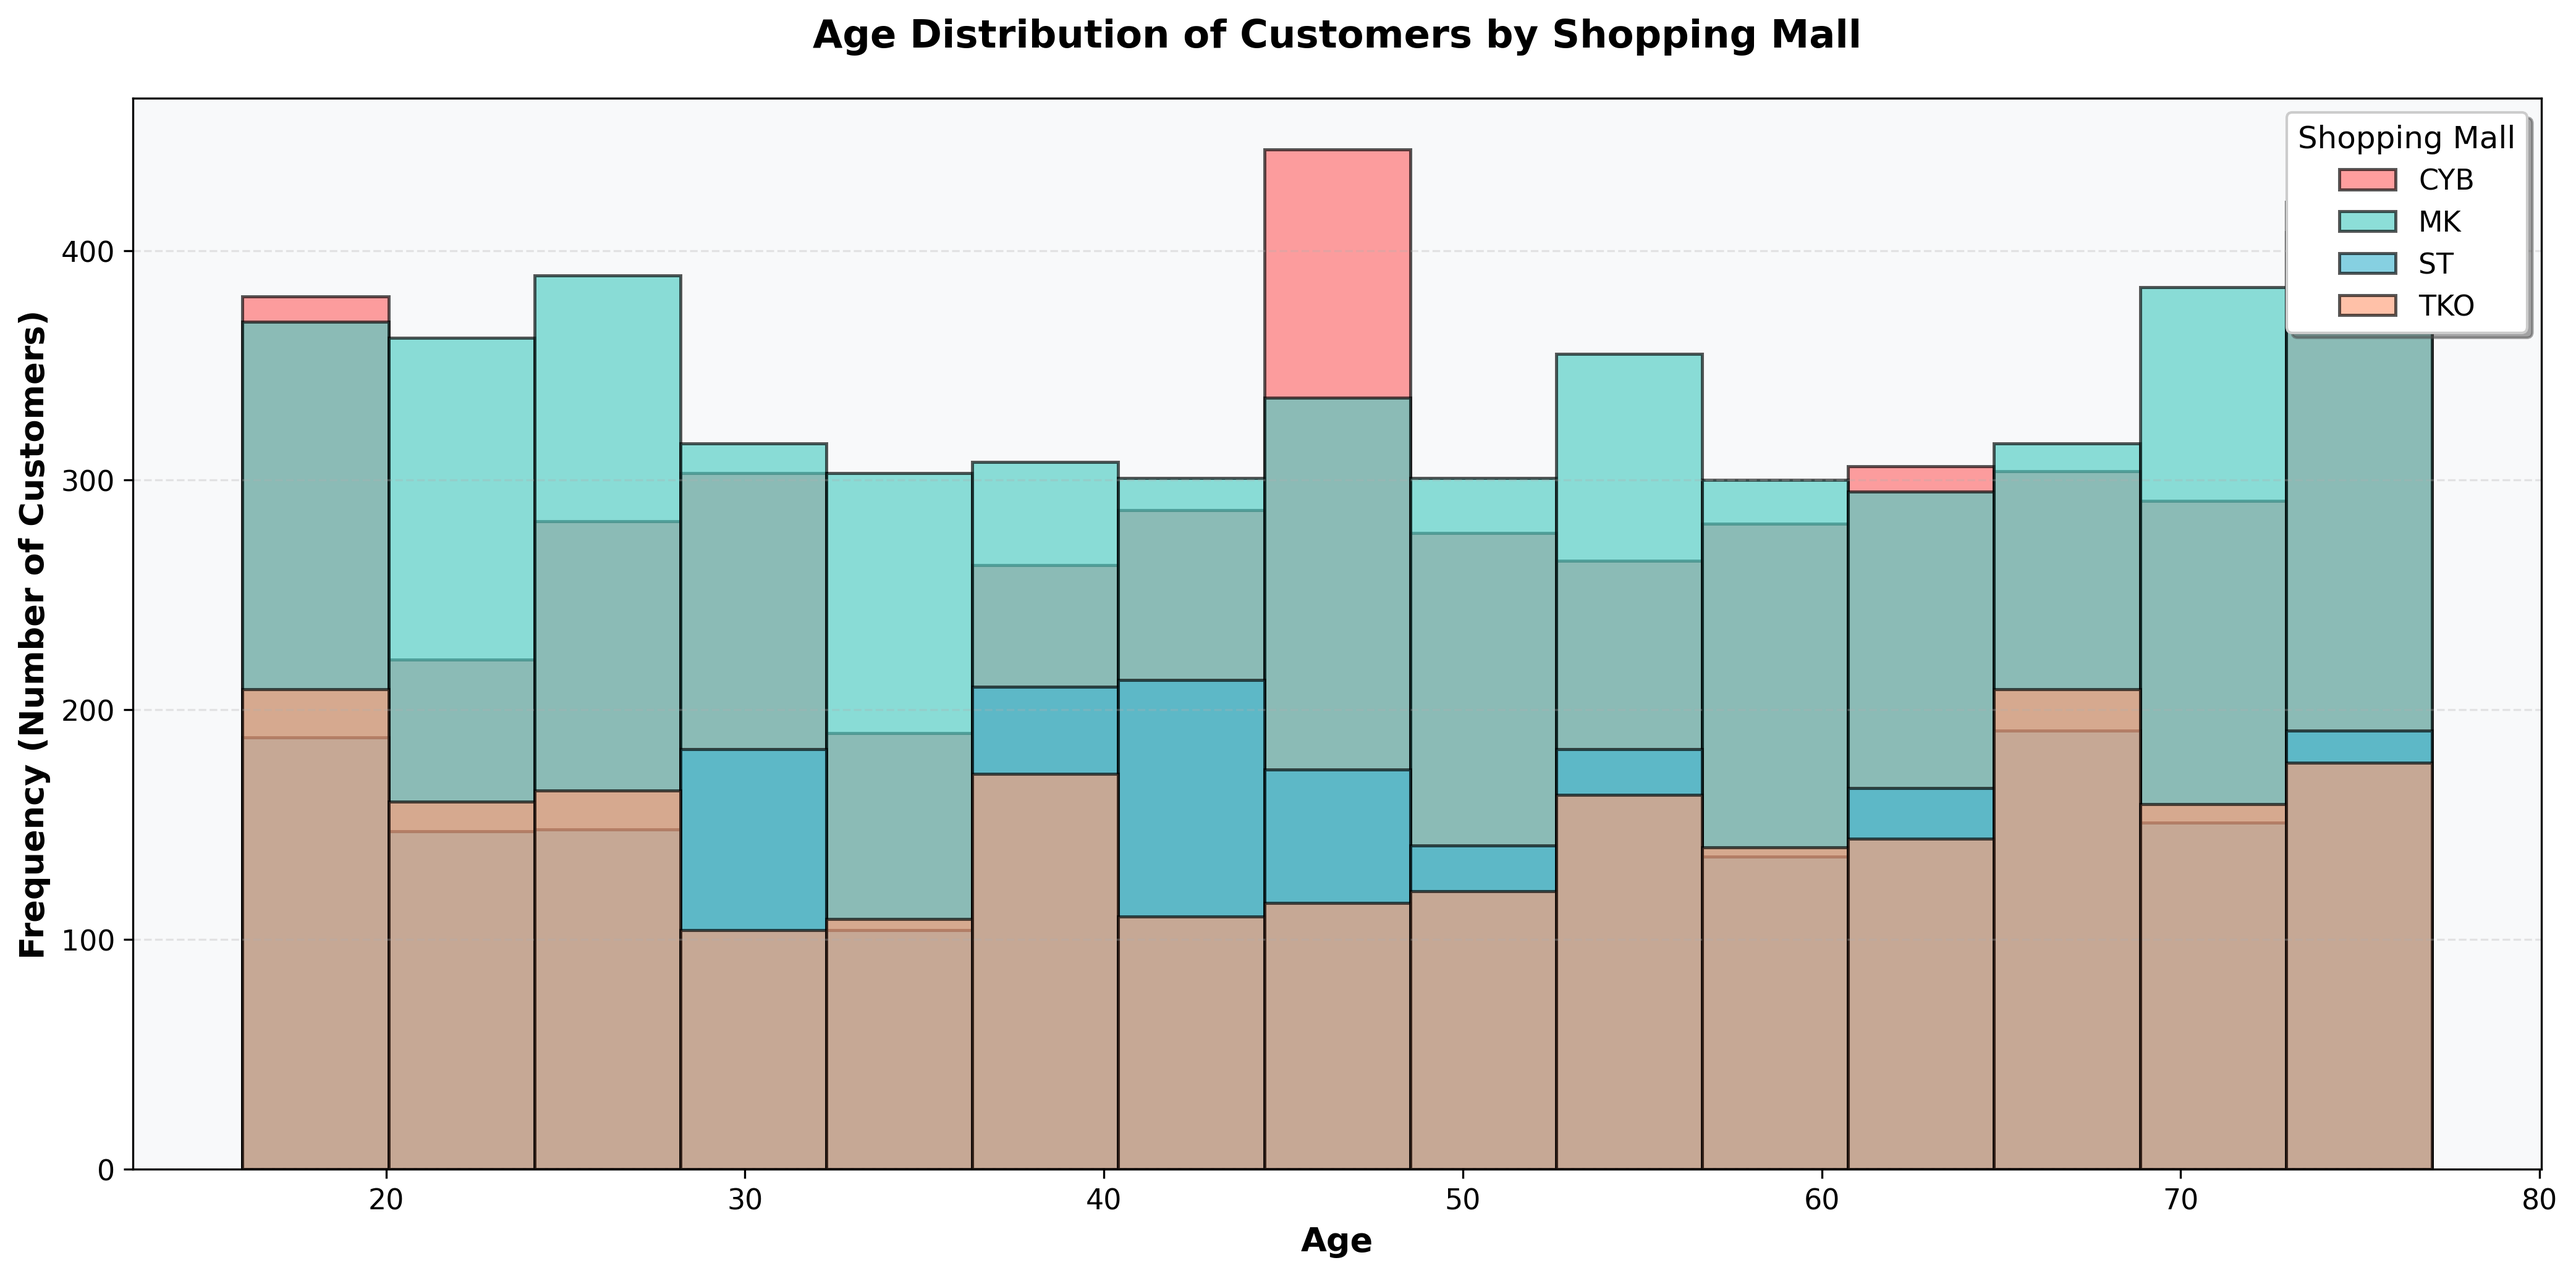
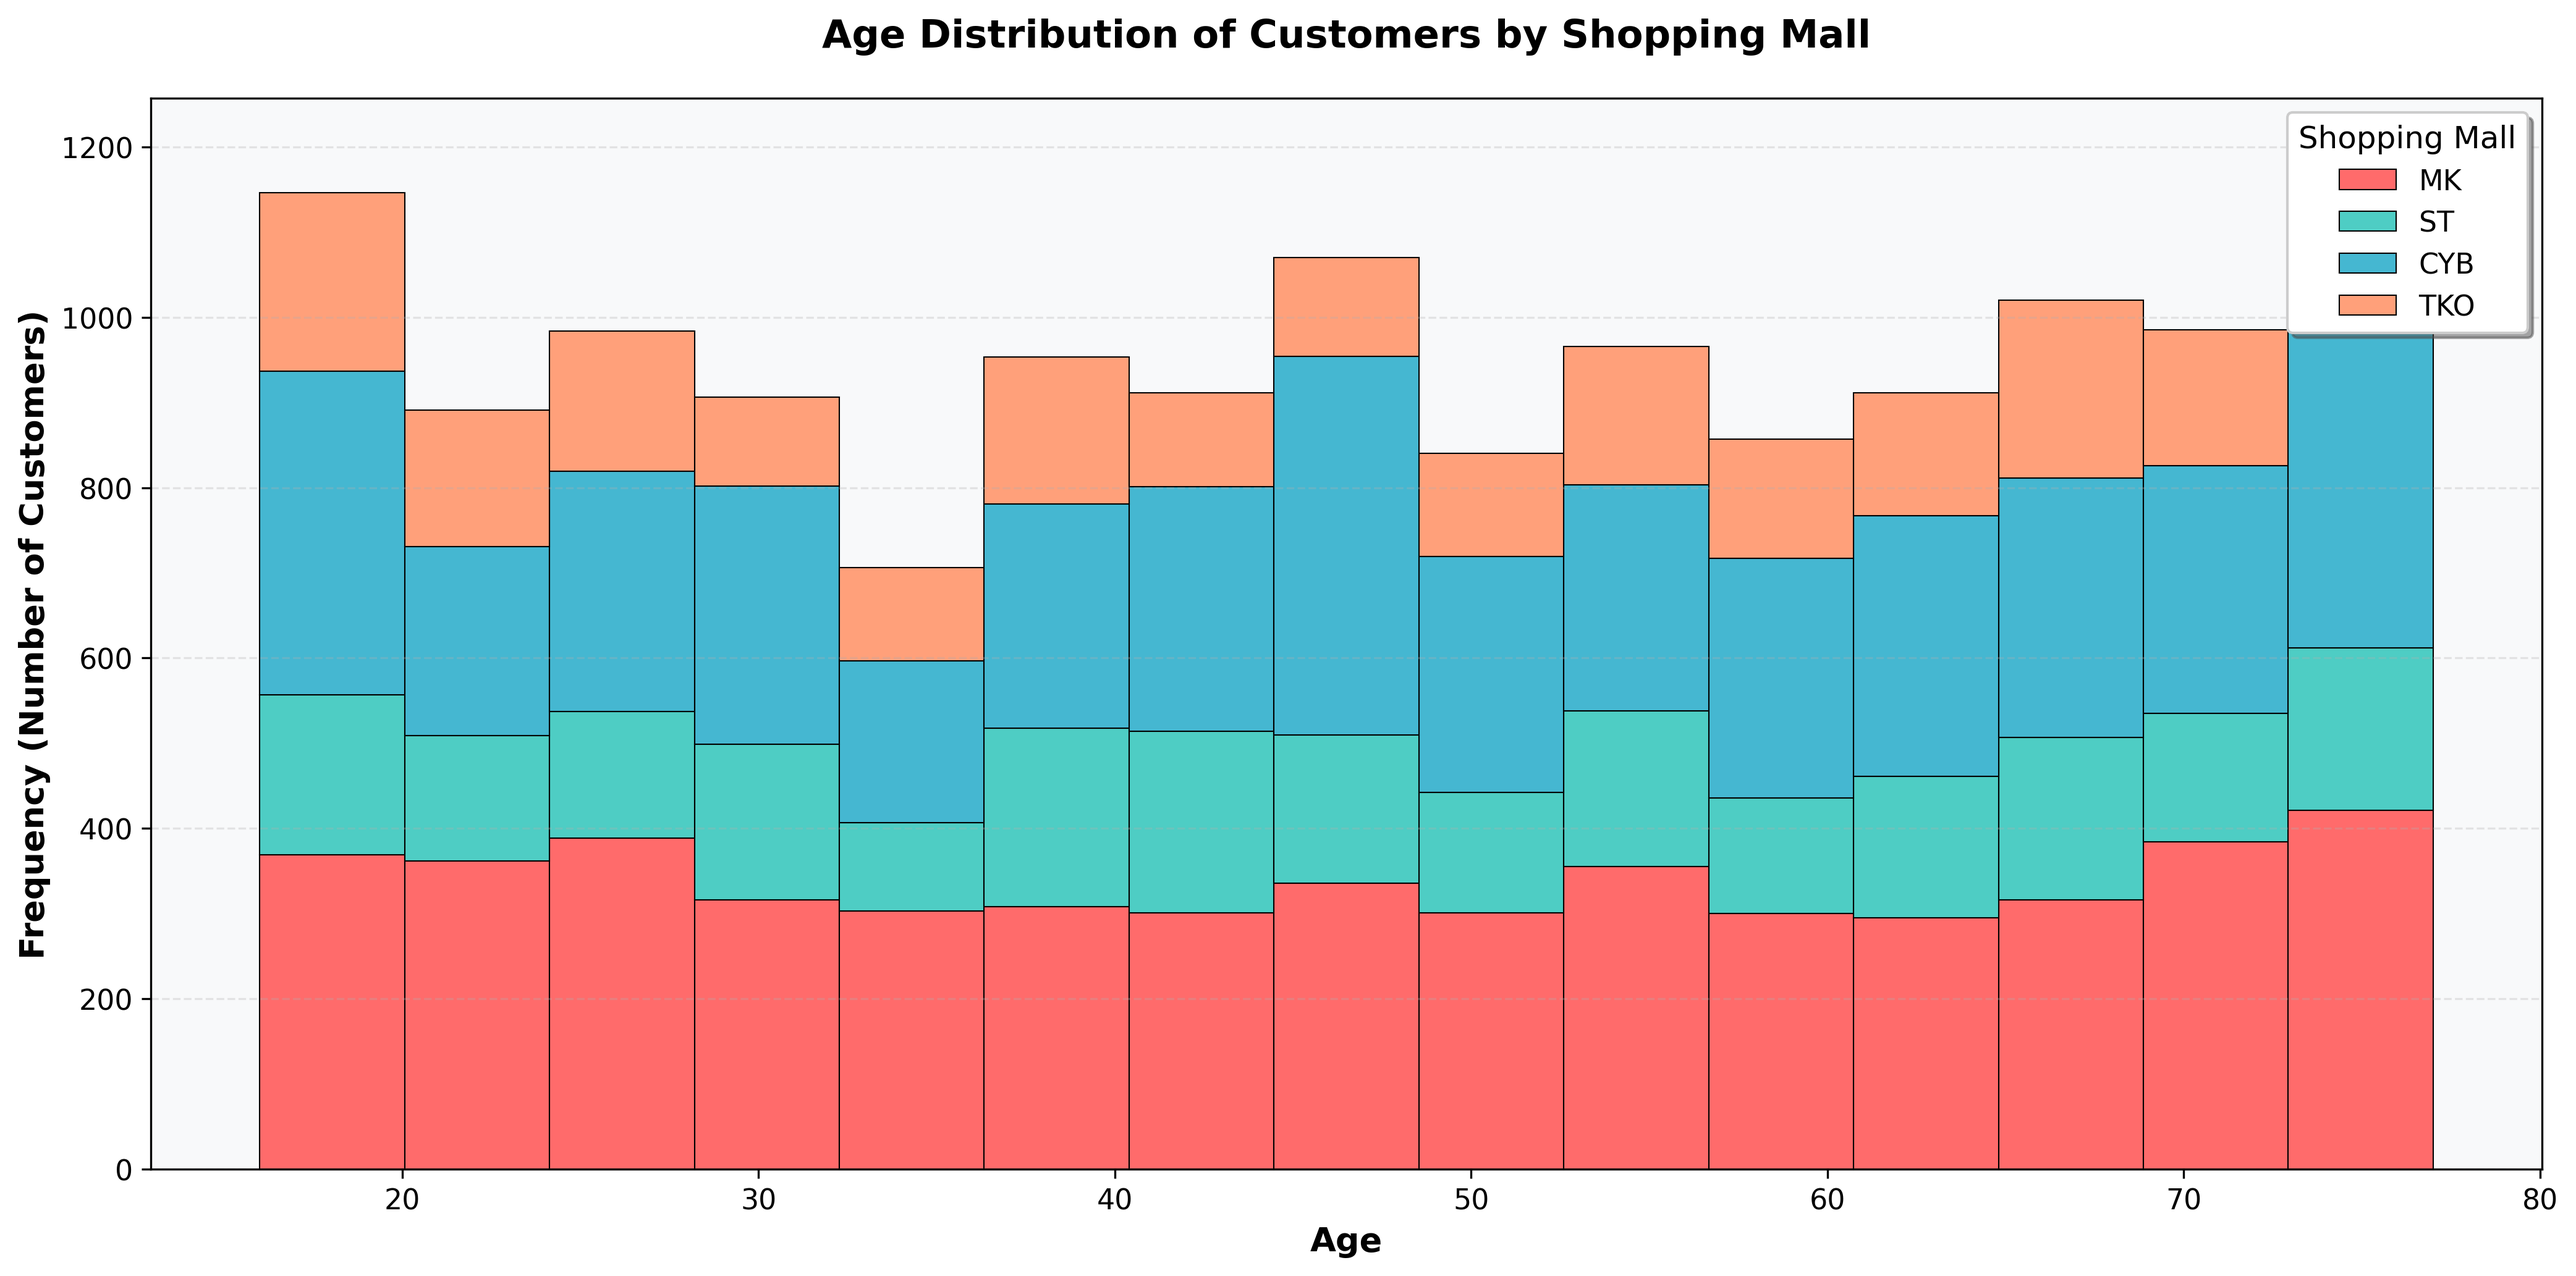
adding the finalized version into git

diff --git a/main.py b/main.py
@@ -248,12 +248,19 @@ plt.show()
 
 # 4.1 Histogram for Age Distribution by Shopping Mall
 fig_demo, ax_demo = plt.subplots(figsize=(14, 7))
-malls = sorted(combined_data["Shopping mall"].unique())
+malls = combined_data["Shopping mall"].unique()
 colors_mall = ['#FF6B6B', '#4ECDC4', '#45B7D1', '#FFA07A']
-mall_colors = {mall: colors_mall[i] for i, mall in enumerate(malls)}
+
+# Prepare data for each mall
+mall_data_list = []
+mall_labels = []
 for mall in malls:
-    mall_data = combined_data[combined_data["Shopping mall"] == mall]["Age"]
-    ax_demo.hist(mall_data, bins=15, alpha=0.65, label=mall, color=mall_colors[mall], edgecolor='black', linewidth=1.2)
+    mall_data_list.append(combined_data[combined_data["Shopping mall"] == mall]["Age"])
+    mall_labels.append(mall)
+
+# Create stacked histogram
+ax_demo.hist(mall_data_list, bins=15, label=mall_labels, color=colors_mall[:len(malls)], 
+             edgecolor='black', linewidth=0.5, stacked=True)
 
 ax_demo.set_xlabel("Age", fontsize=13, fontweight='bold')
 ax_demo.set_ylabel("Frequency (Number of Customers)", fontsize=13, fontweight='bold')

diff --git a/README.md b/README.md
@@ -9,8 +9,8 @@ README: Running instructions for COMP3134
 
 4. Once the dependencies are installed, run the program with the following instruction
    ```
-   python run initial.py
-   python3 run initial.py
+   python run main.py
+   python3 run main.py
    ```
 
 
